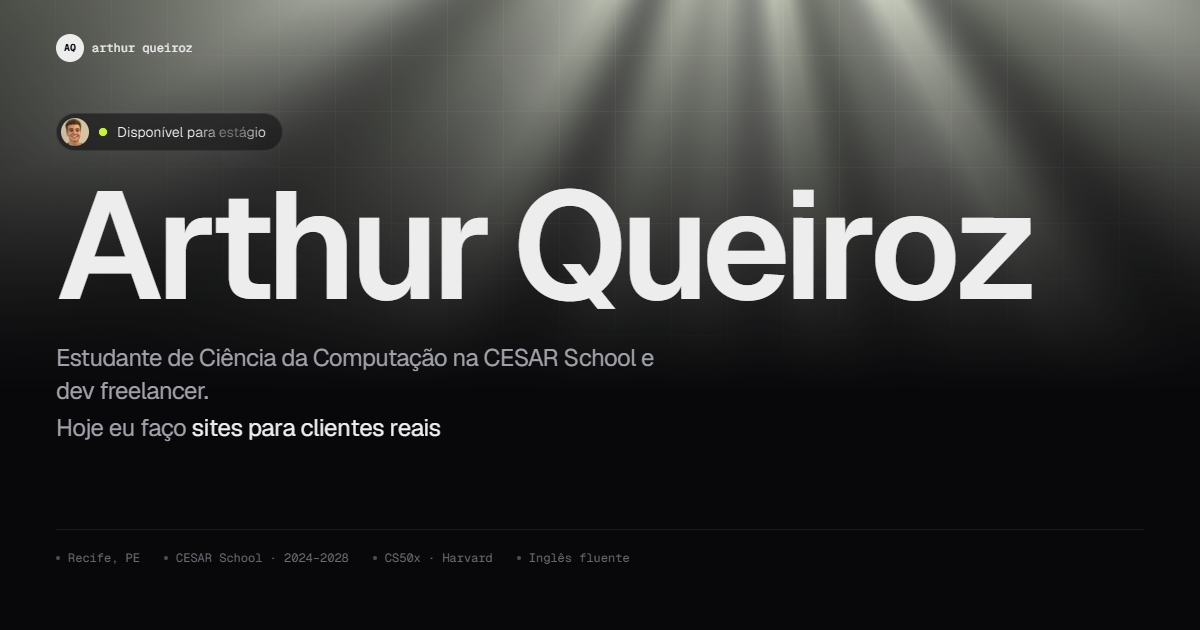
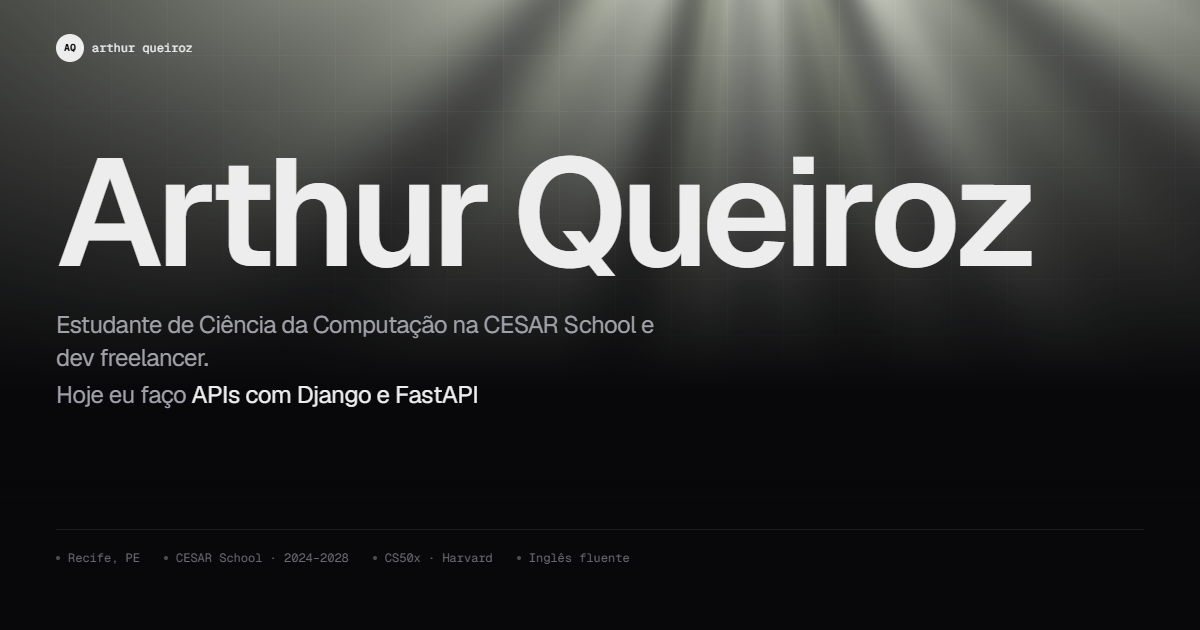
Ajustes de conteúdo
- remove o selo "Disponível para estágio" do topo
- troca "jogos em C com Raylib" por "automatização de processos"
- TLT Mídias: ano 2025, link do repositório, Cypress e Azure
- CUP e Formitas passam para 2025
- tira a legenda da Trajetória
- atualiza a imagem de compartilhamento

diff --git a/src/data/content.ts b/src/data/content.ts
@@ -13,7 +13,7 @@ export const profile = {
   roles: [
     "sites para clientes reais",
     "APIs com Django e FastAPI",
-    "jogos em C com Raylib",
+    "automatização de processos",
     "dashboards em React",
   ],
   facts: ["Recife, PE", "CESAR School · 2024–2028", "CS50x · Harvard", "Inglês fluente"],
@@ -97,16 +97,16 @@ export const featuredProjects: Project[] = [
     slug: "tlt-midias",
     title: "TLT Mídias",
     kicker: "CESAR School · Jornal do Commercio",
-    year: "",
+    year: "2025",
     summary:
-      "Repaginação do portal online do Jornal do Commercio, com foco em priorizar o que importa na capa.",
+      "Repaginação do portal online do Jornal do Commercio para fazer o leitor ficar mais tempo no site.",
     highlights: [
       "Busca, comentários e notificações de breaking news",
-      "Testes automatizados desde o começo",
-      "Pipeline de CI/CD com deploy contínuo",
+      "Destaque das matérias mais relevantes na página inicial",
+      "Testes E2E com Cypress e deploy contínuo no Azure",
     ],
-    stack: ["Django", "Python", "CI/CD"],
-    links: [],
+    stack: ["Django", "Python", "Cypress", "Azure"],
+    links: [{ label: "Código", href: "https://github.com/Nobutann/TLTMidias" }],
     cover: { kind: "newspaper" },
   },
   {
@@ -199,13 +199,13 @@ export const moreProjects: IndexEntry[] = [
   {
     title: "CUP — Cooking Under Pressure",
     detail: "Jogo em Bitsy feito a seis mãos em Introdução à Computação",
-    year: "2024",
+    year: "2025",
     href: "https://arthurqueiroz.itch.io/cup-cooking-under-pressure",
   },
   {
     title: "Formitas",
     detail: "Jogo físico com Arduino para crianças com Síndrome de Down",
-    year: "2024",
+    year: "2025",
   },
 ];
 

diff --git a/src/components/sections/hero.tsx b/src/components/sections/hero.tsx
@@ -3,7 +3,6 @@ import { motion } from "motion/react";
 import { ArrowDown, Download } from "lucide-react";
 import { LightRays } from "@/components/spell/light-rays";
 import { BlurReveal } from "@/components/spell/blur-reveal";
-import { ShimmerText } from "@/components/spell/shimmer-text";
 import { FlowButton } from "@/components/spell/flow-button";
 import { FlipWords } from "@/components/21st/flip-words";
 import { GridPattern } from "@/components/21st/grid-pattern";
@@ -62,19 +61,6 @@ export function Hero({ dark }: { dark: boolean }) {
         </div>
 
         <div className="flex flex-1 flex-col justify-center pt-16 sm:pt-20">
-          <motion.div {...fadeUp(0.1)} className="mb-7 inline-flex w-fit items-center gap-2.5 rounded-full border border-line bg-surface/60 py-1 pr-4 pl-1 backdrop-blur">
-            <img src={asset("me/avatar.webp")} alt="" width={28} height={28} className="size-7 rounded-full object-cover" />
-            <span className="relative flex size-2">
-              <span className="absolute inset-0 animate-[pulse-ring_2s_ease-out_infinite] rounded-full bg-accent" />
-              <span className="relative size-2 rounded-full bg-accent" />
-            </span>
-            <span className="text-sm text-fg">
-              <ShimmerText duration={2.2} delay={1.2}>
-                Disponível para estágio
-              </ShimmerText>
-            </span>
-          </motion.div>
-
           <BlurReveal
             as="h1"
             delay={0.15}

diff --git a/src/components/sections/journey.tsx b/src/components/sections/journey.tsx
@@ -30,7 +30,6 @@ export function Journey() {
         index="03"
         label="Trajetória"
         title="Até aqui"
-        lead="Faculdade, monitoria, freela e um ano fora do país. Do mais recente para o mais antigo."
       />
       <Timeline data={data} />
     </section>

diff --git a/README.md b/README.md
@@ -25,7 +25,6 @@ A maior parte da interface parte de componentes do [Spell UI](https://spell.sh) 
 | Fundo do topo | Light Rays (portado de three.js para WebGL puro) | Spell UI |
 | Nome e títulos | Blur Reveal | Spell UI |
 | Rótulos das seções | Special Text | Spell UI |
-| "Disponível para estágio" | Shimmer Text | Spell UI |
 | Botão do currículo | Flow Button | Spell UI |
 | Faixa de tecnologias | Marquee | Spell UI |
 | Destaque no "Sobre" | Highlighted Text | Spell UI |
